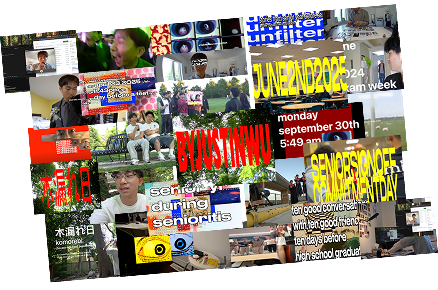
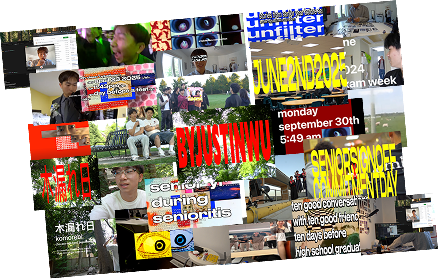
resized artgallery+prefooter images to fill up max area + better image quality

diff --git a/lib/collageItems.ts b/lib/collageItems.ts
@@ -18,10 +18,10 @@ export const collageItems: CollageItemConfig[] = [
     alt: 'favorite basketball',
     brand: 'Wilson',
     description: 'The official game ball that got me through countless pickup games. Best grip and bounce I\'ve ever played with.',
-    width: 180,
-    height: 180,
+    width: 145,
+    height: 145,
     defaultX: -2,
-    defaultY: 15,
+    defaultY: 35,
     rotation: 0,
   },
   {
@@ -30,8 +30,8 @@ export const collageItems: CollageItemConfig[] = [
     alt: 'marty supreme ping pong ball',
     brand: 'Marty Supreme',
     description: 'Premium table tennis balls for those intense matches. The perfect weight and spin response.',
-    width: 160,
-    height: 160,
+    width: 152,
+    height: 150,
     defaultX: 1,
     defaultY: 60,
     rotation: 0,
@@ -42,10 +42,10 @@ export const collageItems: CollageItemConfig[] = [
     alt: 'dr. martens',
     brand: 'Dr. Martens',
     description: 'Classic Oxford shoes that pair with everything. Broken in perfectly after years of wear.',
-    width: 200,
-    height: 100,
-    defaultX: 18,
-    defaultY: -2,
+    width: 175,
+    height: 104,
+    defaultX: 10,
+    defaultY: 52,
     rotation: -3,
   },
   {
@@ -54,10 +54,10 @@ export const collageItems: CollageItemConfig[] = [
     alt: 'favorite sticky note',
     brand: 'Personal',
     description: 'A daily reminder stuck on my desk. Mindset is everything.',
-    width: 240,
-    height: 100,
+    width: 253,
+    height: 120,
     defaultX: 28,
-    defaultY: 5,
+    defaultY: 18,
     rotation: 2,
   },
   {
@@ -66,10 +66,10 @@ export const collageItems: CollageItemConfig[] = [
     alt: 'best disposable camera',
     brand: 'Fujifilm',
     description: 'There\'s something special about disposable cameras. No previews, no deletes—just pure moments.',
-    width: 220,
-    height: 140,
+    width: 192,
+    height: 133,
     defaultX: 8,
-    defaultY: 32,
+    defaultY: 42,
     rotation: 8,
   },
   {
@@ -78,10 +78,10 @@ export const collageItems: CollageItemConfig[] = [
     alt: 'my youtube videos',
     brand: 'Memories',
     description: 'A collection of printed photos from travels and moments with friends. Physical photos hit different.',
-    width: 420,
-    height: 360,
+    width: 350,
+    height: 224,
     defaultX: 18,
-    defaultY: 28,
+    defaultY: 38,
     rotation: -1,
   },
   {
@@ -90,10 +90,10 @@ export const collageItems: CollageItemConfig[] = [
     alt: 'kafka on the shore',
     brand: 'Haruki Murakami',
     description: 'My favorite Murakami novel. A surreal journey that stays with you long after the last page.',
-    width: 180,
-    height: 250,
+    width: 130,
+    height: 156,
     defaultX: 38,
-    defaultY: -5,
+    defaultY: 18,
     rotation: 3,
   },
   {
@@ -102,10 +102,10 @@ export const collageItems: CollageItemConfig[] = [
     alt: 'favorite jeans',
     brand: 'Polar Skate Co.',
     description: 'The baggiest, most comfortable jeans I own. Perfect silhouette for skating and everyday wear.',
-    width: 260,
-    height: 440,
+    width: 154,
+    height: 197,
     defaultX: 52,
-    defaultY: -8,
+    defaultY: 18,
     rotation: 0,
   },
   {
@@ -114,10 +114,10 @@ export const collageItems: CollageItemConfig[] = [
     alt: 'triple b',
     brand: 'Comfort Food',
     description: 'Late night noodles are a ritual. Nothing beats a steaming bowl after a long day.',
-    width: 170,
-    height: 170,
+    width: 160,
+    height: 123,
     defaultX: 68,
-    defaultY: 5,
+    defaultY: 25,
     rotation: 0,
   },
   {
@@ -126,8 +126,8 @@ export const collageItems: CollageItemConfig[] = [
     alt: 'mahjong',
     brand: 'Traditional',
     description: 'Family game nights around the mahjong table. The sound of shuffling tiles is nostalgic.',
-    width: 300,
-    height: 130,
+    width: 160,
+    height: 114,
     defaultX: 35,
     defaultY: 55,
     rotation: -2,
@@ -138,8 +138,8 @@ export const collageItems: CollageItemConfig[] = [
     alt: 'syde c/o 2030',
     brand: 'Friends',
     description: 'The crew. Some of my favorite people captured in one frame.',
-    width: 300,
-    height: 200,
+    width: 240,
+    height: 160,
     defaultX: 42,
     defaultY: 42,
     rotation: 2,
@@ -150,10 +150,10 @@ export const collageItems: CollageItemConfig[] = [
     alt: 'haruki murakami',
     brand: 'Inspiration',
     description: 'The author who changed how I see storytelling. His work blends reality and dreams seamlessly.',
-    width: 320,
-    height: 420,
+    width: 285,
+    height: 187,
     defaultX: 52,
-    defaultY: 25,
+    defaultY: 35,
     rotation: 0,
   },
   {
@@ -162,8 +162,8 @@ export const collageItems: CollageItemConfig[] = [
     alt: 'my current camera',
     brand: 'Sony',
     description: 'My main shooter for video and photo work. The dynamic range and autofocus are unmatched.',
-    width: 200,
-    height: 200,
+    width: 160,
+    height: 157,
     defaultX: 62,
     defaultY: 50,
     rotation: 2,
@@ -174,10 +174,10 @@ export const collageItems: CollageItemConfig[] = [
     alt: "my orange arcteryx",
     brand: "Arc'teryx",
     description: 'The ultimate shell jacket. Waterproof, breathable, and built to last through any weather.',
-    width: 240,
-    height: 320,
+    width: 172,
+    height: 218,
     defaultX: 82,
-    defaultY: -5,
+    defaultY: 18,
     rotation: 0,
   },
   {
@@ -186,15 +186,27 @@ export const collageItems: CollageItemConfig[] = [
     alt: 'magic noodle',
     brand: 'Tokyo',
     description: 'A tiny ramen shop discovered while wandering Tokyo streets. Best tonkotsu I\'ve ever had.',
-    width: 240,
-    height: 170,
+    width: 208,
+    height: 138,
     defaultX: 78,
     defaultY: 55,
     rotation: 0,
   },
+  {
+    id: 'running-shoes',
+    src: '/assets/art-gallery/my-running-shoes.png',
+    alt: 'my running shoes',
+    brand: 'Hoka',
+    description: 'My Hoka Clifton 9s. The cushioning is unreal—feels like running on clouds.',
+    width: 206,
+    height: 101,
+    defaultX: 85,
+    defaultY: 35,
+    rotation: -5,
+  },
 ]
 
-export const STORAGE_KEY = 'prefooter-collage-positions-v3'
+export const STORAGE_KEY = 'prefooter-collage-positions-v9'
 
 export interface ItemPosition {
   id: string

diff --git a/lib/artGalleryItems.ts b/lib/artGalleryItems.ts
@@ -1,6 +1,6 @@
 import { collageItems, getItemConfig, type CollageItemConfig, type ItemTransform } from './collageItems'
 
-export const ART_GALLERY_STORAGE_KEY = 'art-gallery-collage-positions-v6'
+export const ART_GALLERY_STORAGE_KEY = 'art-gallery-collage-positions-v7'
 
 // Art gallery specific default positions - matching screenshot orientation with proper sizes
 // Positions are percentages from left (x) and top (y) of the container
@@ -25,6 +25,7 @@ export const artGalleryDefaults: Record<string, { x: number; y: number; width: n
   'sony-camera': { x: 50, y: 48, width: 150, height: 130, rotation: 0, zIndex: 13 },
   'noodle-restaurant': { x: 66, y: 50, width: 180, height: 130, rotation: 0, zIndex: 14 },
   'photo-collage': { x: 82, y: 45, width: 280, height: 155, rotation: 0, zIndex: 15 },
+  'running-shoes': { x: 82, y: 28, width: 180, height: 100, rotation: -5, zIndex: 16 },
 }
 
 export function getArtGalleryDefaultTransforms(): ItemTransform[] {
